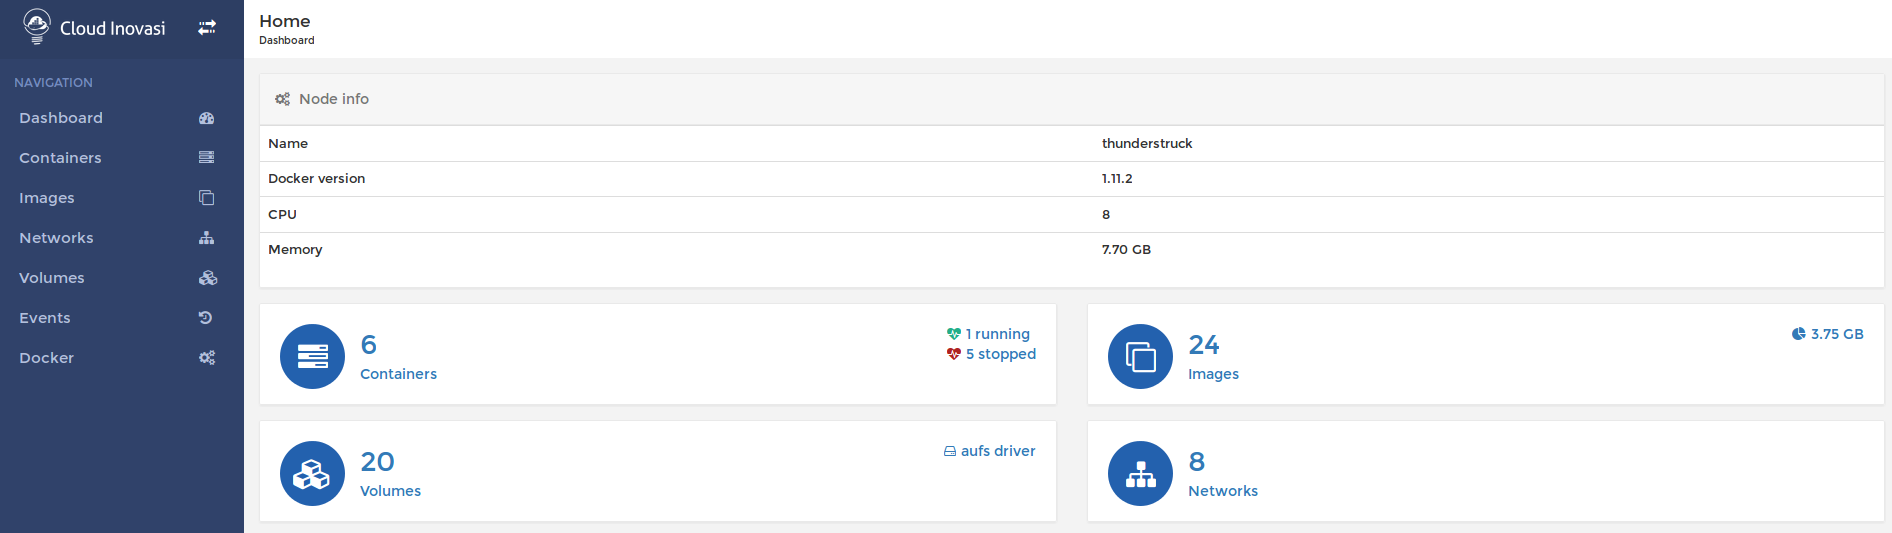
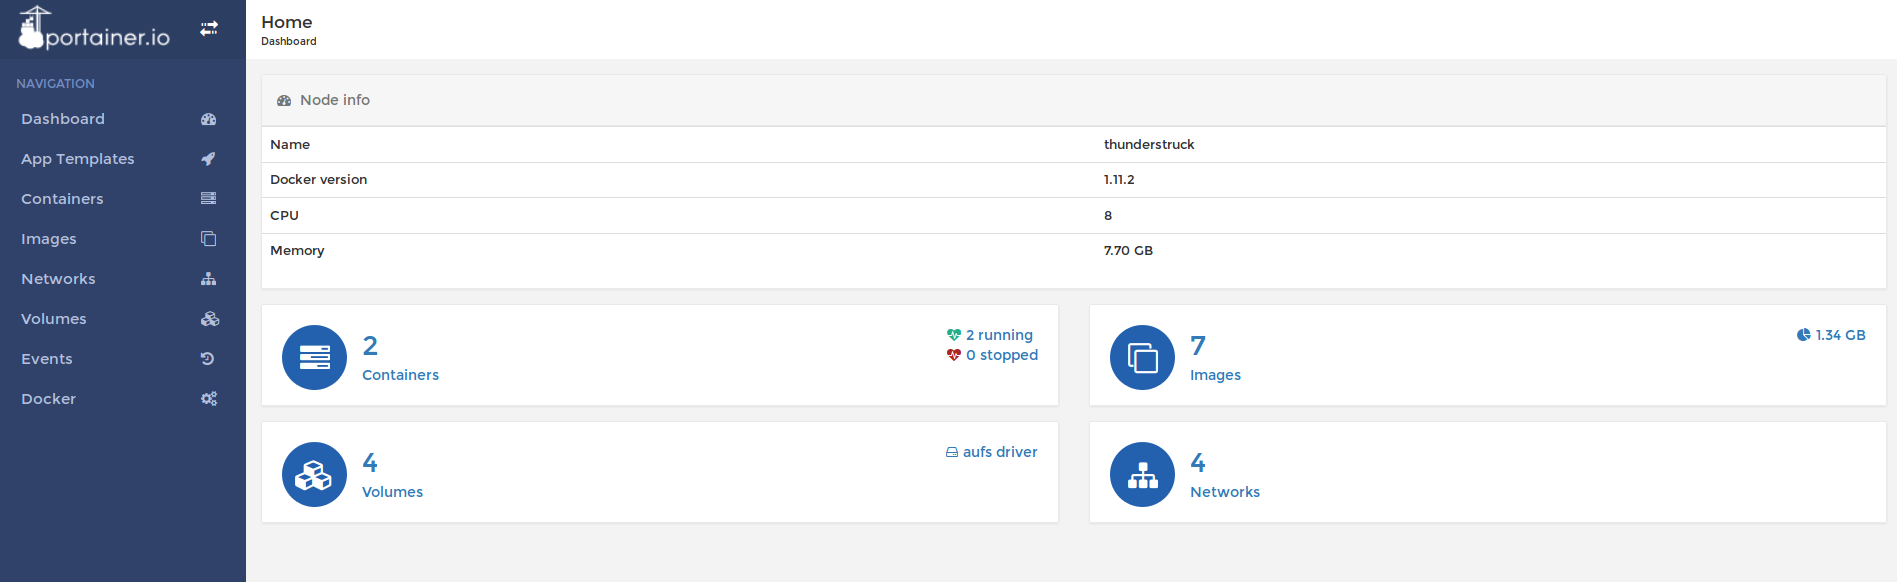
style(docs): update dashboard picture

diff --git a/README.md b/README.md
@@ -1,6 +1,6 @@
 # Portainer
 
-Portainer is a web interface for the Docker Remote API.
+Portainer is a web interface for the Docker remote API.
 
 ![Dashboard](/dashboard.png)
 
